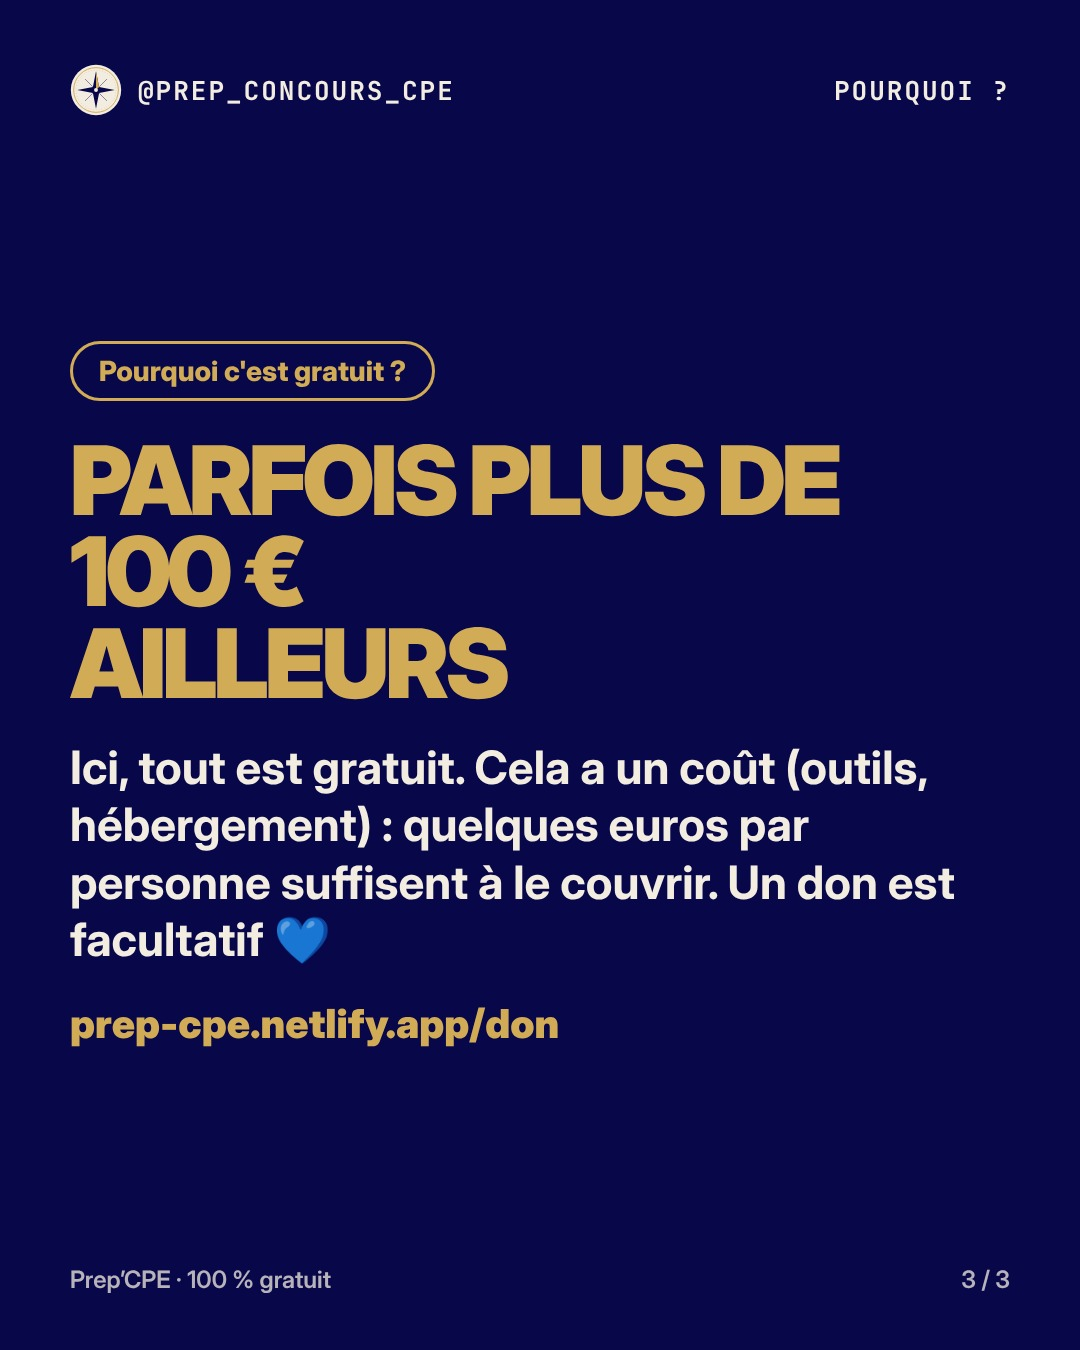
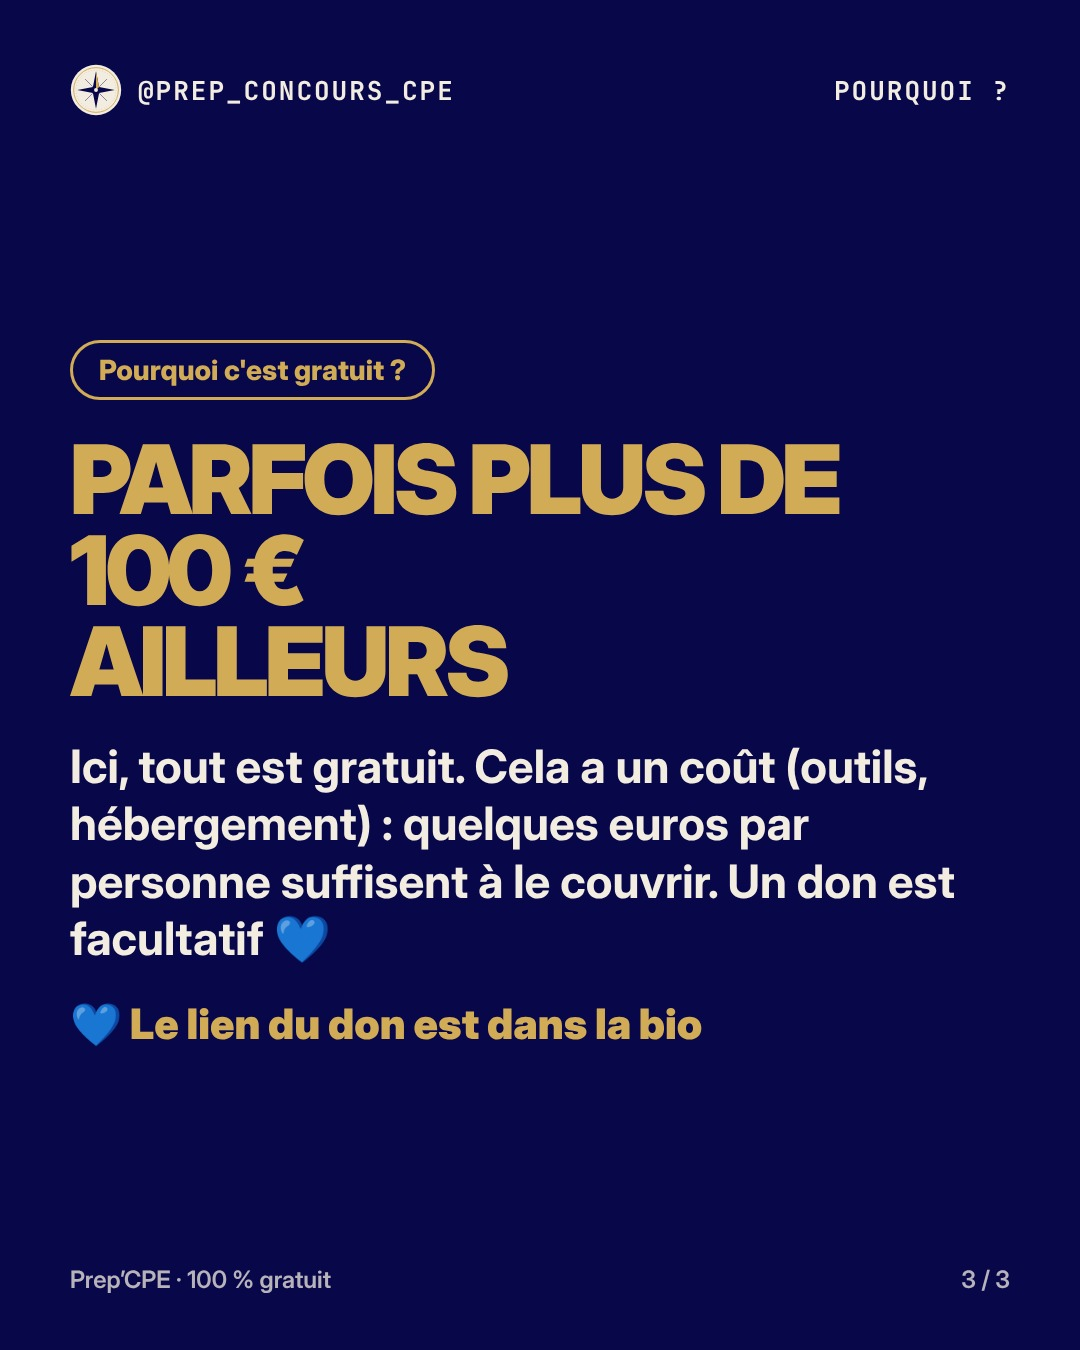
Post fascicule : lien du don dans la bio
Claude-Session: https://claude.ai/code/session_01FvtqKUS35u5h1MsQGDj8Vv

diff --git a/posts/fascicule-fiches/LEGENDE.md b/posts/fascicule-fiches/LEGENDE.md
@@ -8,7 +8,7 @@ En attente de validation de Tanguy. Pas encore publié. Le PDF doit d'abord avoi
 
 Pour le recevoir : commentez FICHES sous ce post et je vous l'envoie en message privé.
 
-Prep'CPE reste gratuit, alors que l'on trouve parfois des fiches de préparation vendues plus de 100 € ailleurs. Cela a un coût (outils, hébergement) : quelques euros par personne suffisent à le couvrir, et un don est toujours facultatif 💙 Lien du site en bio.
+Prep'CPE reste gratuit, alors que l'on trouve parfois des fiches de préparation vendues plus de 100 € ailleurs. Cela a un coût (outils, hébergement) : quelques euros par personne suffisent à le couvrir, et un don est toujours facultatif 💙 Le lien du don est dans la bio.
 
 Vous préparez quel concours : externe, interne ou 3e concours ? Dites-le en commentaire, avec le mot FICHES.
 
